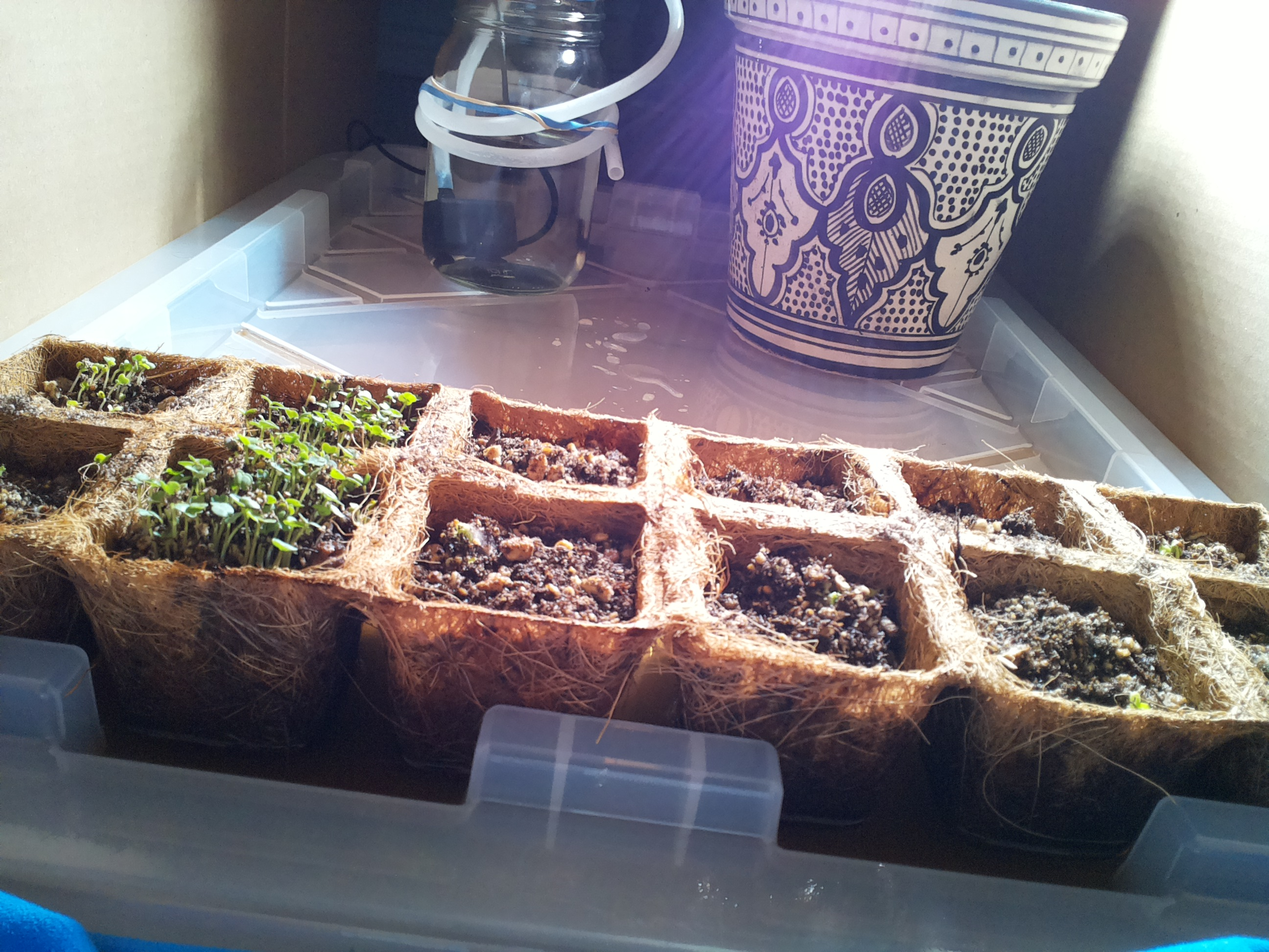
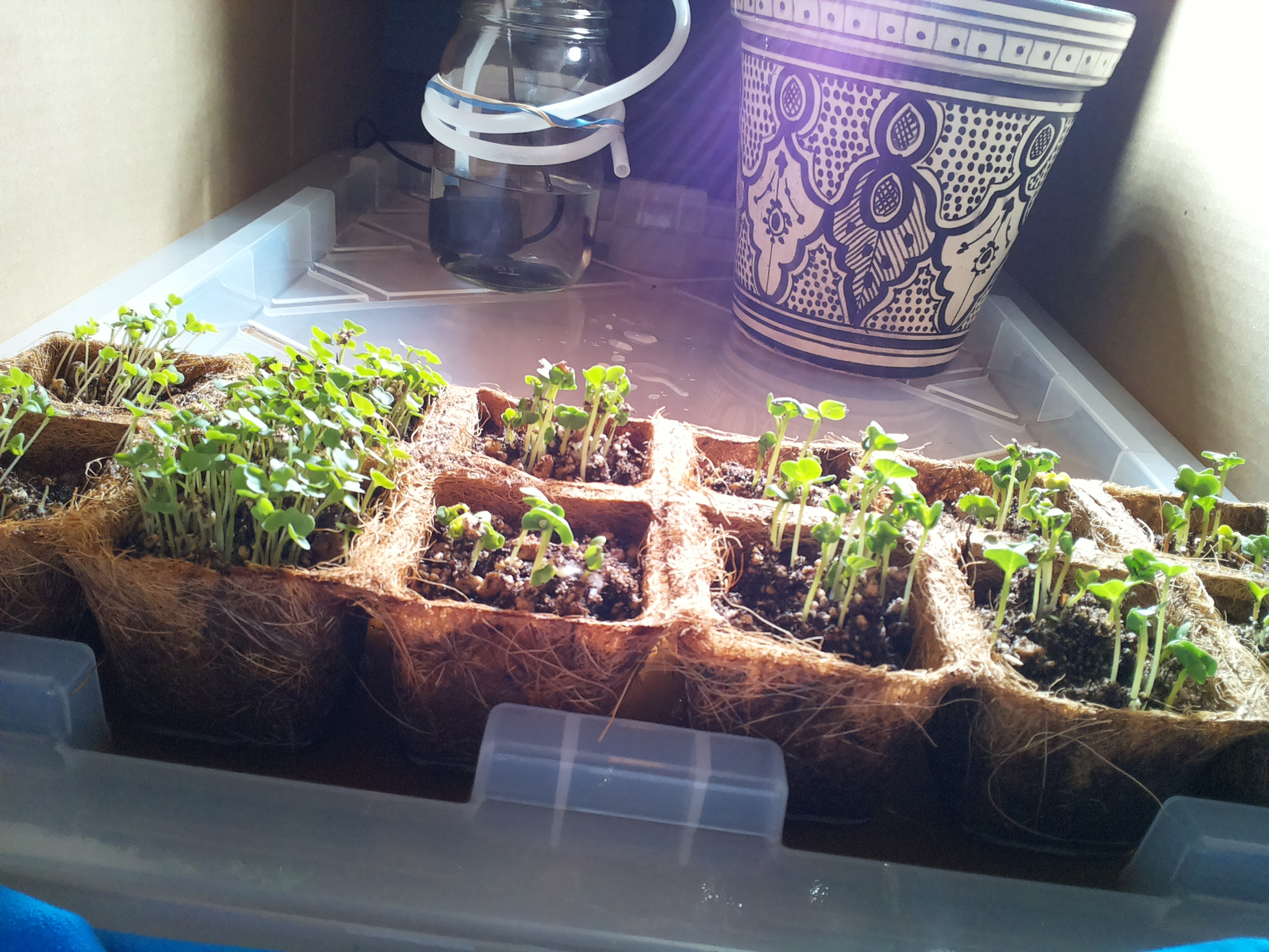
mirror sync 2026-08-27 19:30

diff --git a/home/bubbles/farmer-claude/JOURNAL.md b/home/bubbles/farmer-claude/JOURNAL.md
@@ -83,3 +83,9 @@
 - Soil: cell surfaces mostly dark/damp; coir walls pale as usual. No alarming dry-down since 07:12. Bright sunlight patch across the middle cells in the photo.
 - Jar ~25-30% — pump body still submerged but the margin above it is getting thin. Reservoir remains the watch item; keep estimating against pump-body height each check-in.
 - Lamp: on — correct for photoperiod. Watering: none (observe-only per standing order 2); 4s of 60s daily cap used. Evening 19:22 pulse planned unless soil looks dark. No changes to standing orders.
+
+### 2026-08-27 19:22 — evening check-in (cron)
+- Photo: seedlings healthy in all 12 cells (day 3). Left cells a tall dense mat; middle/right cotyledons open and green. No mold/pests/tipping.
+- Soil: medium — damp patches but not saturated, coir walls pale as usual. Lamp: on — correct for photoperiod.
+- Watering: 4s pulse per standing order 2 (8s of 60s daily cap used; water.py OK, pump off). Post-pulse photo shows fresh water on the lid channels — bottom-feed path working.
+- Jar ~20-25% after the pulse — pump body still submerged but margin above it is thin. At 8s/day, estimate ~1-2 more days of pulses before hitting the pump-body threshold. Continue aggressive skipping when soil is dark; check level against pump body every check-in and invoke the EMERGENCY-reservoir protocol (stop pumping) the moment the waterline nears the pump body.
